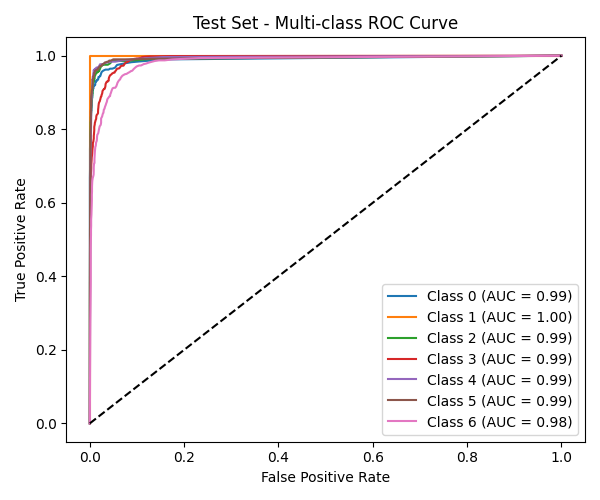
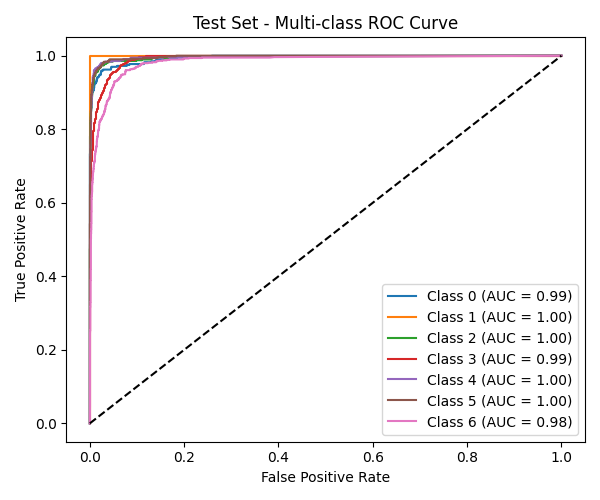
add randomsearch to model

Changed region(s): [[0.15, 0.09, 0.87, 0.36], [0.9, 0.75, 0.96, 0.81], [0.9, 0.66, 0.96, 0.69]]

diff --git a/train&test/logistic.py b/train&test/logistic.py
@@ -6,7 +6,7 @@ from tqdm import tqdm
 import os
 
 from sklearn.linear_model import LogisticRegression
-from sklearn.model_selection import train_test_split
+from sklearn.model_selection import train_test_split, RandomizedSearchCV
 from sklearn.preprocessing import label_binarize
 from sklearn.metrics import (
     accuracy_score,
@@ -17,12 +17,13 @@ from sklearn.metrics import (
     roc_curve,
     auc
 )
+from scipy.stats import loguniform
 
 # 创建保存目录
 os.makedirs("results/logistic_regression", exist_ok=True)
 
 # 读取数据
-df = pd.read_csv("preprocessing/processed_data_label_encoding.csv")
+df = pd.read_csv("../preprocessing\processed_data_label_encoding.csv")
 
 # 特征与标签
 X = df.drop(columns=["ID", "encoded_label"])
@@ -40,9 +41,33 @@ X_train, X_test, y_train, y_test = train_test_split(
 y_train_bin = label_binarize(y_train, classes=classes)
 y_test_bin = label_binarize(y_test, classes=classes)
 
-# 直接使用逻辑回归进行多分类
-clf = LogisticRegression(max_iter=1000, solver='lbfgs', multi_class='multinomial')
-clf.fit(X_train, y_train)
+# 使用 RandomizedSearchCV 进行参数优化
+param_dist = {
+    'C': loguniform(1e-4, 1e4),
+    'solver': ['lbfgs', 'newton-cg', 'sag', 'saga'],
+    'penalty': ['l2'],
+    'max_iter': [500, 1000, 2000]
+}
+
+base_clf = LogisticRegression()
+random_search = RandomizedSearchCV(
+    estimator=base_clf,
+    param_distributions=param_dist,
+    n_iter=20,
+    scoring='accuracy',
+    cv=3,
+    verbose=1,
+    n_jobs=1,
+    random_state=42
+)
+
+random_search.fit(X_train, y_train)
+
+# 获取最优模型
+clf = random_search.best_estimator_
+
+print("Best Parameters from Random Search:")
+print(random_search.best_params_)
 
 # 数据集集合
 datasets = {
@@ -54,7 +79,7 @@ datasets = {
 # 评估 + 可视化函数
 for name in tqdm(datasets, desc="Evaluating datasets"):
     X_set, y_true, y_bin_true = datasets[name]
-    y_pred = clf.predict(X_set)  # 直接预测类别标签
+    y_pred = clf.predict(X_set)
     y_score = clf.predict_proba(X_set)
 
     # 评估指标
@@ -80,26 +105,22 @@ for name in tqdm(datasets, desc="Evaluating datasets"):
     plt.savefig(f"results/logistic_regression/{name.lower()}_confusion_matrix.png")
     plt.close()
 
-    # ROC Curve for multiclass
+    # ROC 曲线和 AUC
     fpr = dict()
     tpr = dict()
     roc_auc = dict()
 
-    # 计算每个类别的 ROC 曲线和 AUC
     for i in range(n_classes):
         fpr[i], tpr[i], _ = roc_curve(y_bin_true[:, i], y_score[:, i])
         roc_auc[i] = auc(fpr[i], tpr[i])
 
-    # 输出每个类别的 AUC 分数
     print(f"AUC for {name} set:")
     for i in range(n_classes):
         print(f"  Class {classes[i]}: AUC = {roc_auc[i]:.2f}")
 
-    # 绘制 ROC 曲线
     plt.figure(figsize=(6, 5))
     for i in range(n_classes):
         plt.plot(fpr[i], tpr[i], label=f"Class {classes[i]} (AUC = {roc_auc[i]:.2f})")
-
     plt.plot([0, 1], [0, 1], 'k--')
     plt.title(f"{name} Set - Multi-class ROC Curve")
     plt.xlabel("False Positive Rate")

diff --git a/train&test/random_forest.py b/train&test/random_forest.py
@@ -6,7 +6,7 @@ from tqdm import tqdm
 import os
 
 from sklearn.ensemble import RandomForestClassifier
-from sklearn.model_selection import train_test_split
+from sklearn.model_selection import train_test_split, RandomizedSearchCV
 from sklearn.preprocessing import label_binarize
 from sklearn.metrics import (
     accuracy_score,
@@ -17,12 +17,13 @@ from sklearn.metrics import (
     roc_curve,
     auc
 )
+from scipy.stats import randint
 
 # 创建保存目录
 os.makedirs("results/random_forest", exist_ok=True)
 
 # 读取数据
-df = pd.read_csv("preprocessing/processed_data_label_encoding.csv")
+df = pd.read_csv("../preprocessing/processed_data_label_encoding.csv")
 
 # 特征与标签
 X = df.drop(columns=["ID", "encoded_label"])
@@ -40,9 +41,36 @@ X_train, X_test, y_train, y_test = train_test_split(
 y_train_bin = label_binarize(y_train, classes=classes)
 y_test_bin = label_binarize(y_test, classes=classes)
 
-# 使用随机森林进行多分类
-clf = RandomForestClassifier(n_estimators=100, random_state=42)
-clf.fit(X_train, y_train)
+# 设置超参数搜索空间
+param_dist = {
+    'n_estimators': randint(100, 1000),  # 随机选择100到1000之间的估计器数量
+    'max_features': ['auto', 'sqrt', 'log2'],  # 特征选择方法
+    'max_depth': randint(10, 100),  # 随机选择10到100之间的深度
+    'min_samples_split': randint(2, 10),  # 随机选择2到10之间的最小拆分样本数
+    'min_samples_leaf': randint(1, 10),  # 随机选择1到10之间的叶子节点最小样本数
+    'bootstrap': [True, False]  # 是否使用 bootstrap 采样
+}
+
+# 创建随机森林模型
+rf = RandomForestClassifier(random_state=42)
+
+# 使用 RandomizedSearchCV 来进行超参数调优
+random_search = RandomizedSearchCV(
+    estimator=rf,
+    param_distributions=param_dist,
+    n_iter=10,  # 随机搜索的迭代次数
+    scoring='accuracy',
+    cv=3,
+    verbose=1,
+    n_jobs=1,
+    random_state=42
+)
+
+# 执行随机搜索
+random_search.fit(X_train, y_train)
+
+# 获取最佳的模型
+best_rf = random_search.best_estimator_
 
 # 数据集集合
 datasets = {
@@ -54,8 +82,8 @@ datasets = {
 # 评估 + 可视化函数
 for name in tqdm(datasets, desc="Evaluating datasets"):
     X_set, y_true, y_bin_true = datasets[name]
-    y_pred = clf.predict(X_set)  # 直接预测类别标签
-    y_score = clf.predict_proba(X_set)
+    y_pred = best_rf.predict(X_set)  # 直接预测类别标签
+    y_score = best_rf.predict_proba(X_set)
 
     # 评估指标
     acc = accuracy_score(y_true, y_pred)
@@ -63,7 +91,7 @@ for name in tqdm(datasets, desc="Evaluating datasets"):
     rec = recall_score(y_true, y_pred, average='weighted')
     f1 = f1_score(y_true, y_pred, average='weighted')
 
-    print(f"\n[{name} Set]")
+    print(f"\n[{name} Set] Best Random Forest Model")
     print(f"Accuracy:  {acc:.4f}")
     print(f"Precision: {prec:.4f}")
     print(f"Recall:    {rec:.4f}")
